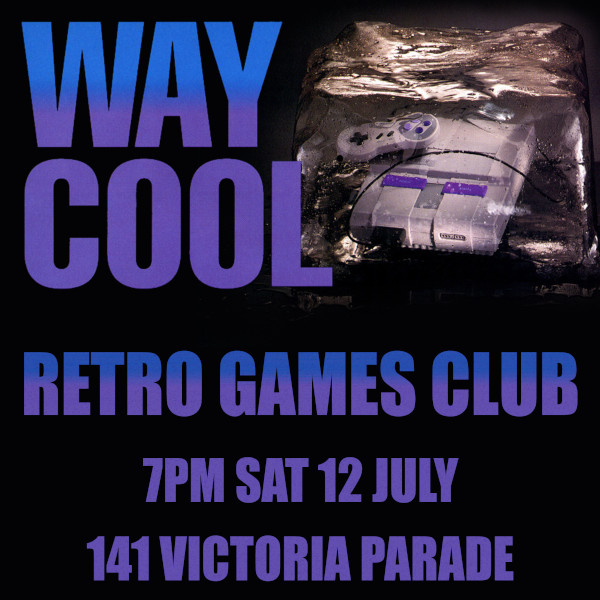
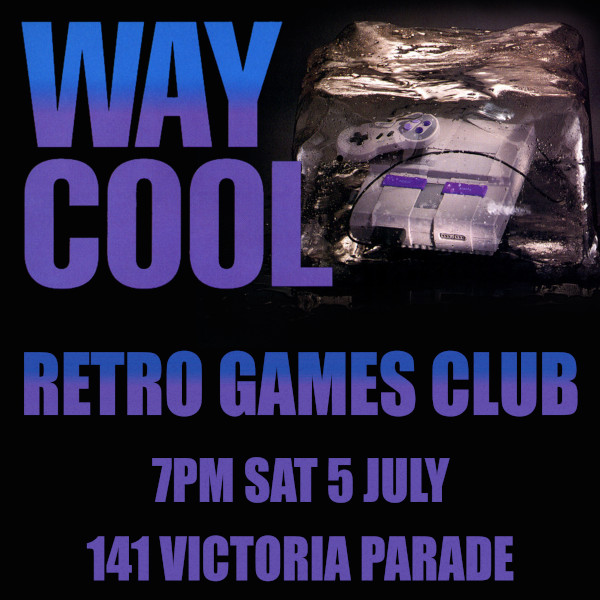
deploy: f20acfa6bb9a91587229a1eeec925e0bd011f57e

Changed region(s): [[0.24, 0.75, 0.78, 0.84]]

diff --git a/events/2025/07-retro-game-club/index.html b/events/2025/07-retro-game-club/index.html
@@ -82,7 +82,7 @@
 	<div class="title">
 		<h1>Retro Games Club</h1>
 		<date>
-			12 Jul 2025
+			05 Jul 2025
 			 <span class="divider">—</span> From 7PM</date>
 	</div>
 
@@ -93,7 +93,8 @@
 	<p>PS2 Book Club is gone, long live Retro Games Club! Come present games from from PS3/360/Wii era and back.</p>
 <p>There's no console theme for July so feel free to present whatever weird or interesting stuff that you wanna show off, or just come along and listen to passionate folks talk about older games!</p>
 <p>Hosted by the gregarious Stella and Zach.<br>
-<a href="https://forms.gle/TaNh2JhfwrDKvScw6" class="button">Signup to talk!</a></p>
+<a href="https://events.humanitix.com/retro-games-club" class="button">Reserve A Spot!</a></p>
+<p><a href="https://forms.gle/TaNh2JhfwrDKvScw6" class="button">Signup to talk!</a></p>
 
 	</article>
 </section>

diff --git a/calendar/index.html b/calendar/index.html
@@ -288,7 +288,7 @@
 						<td class="day-active">4</td>
 							
 							
-						<td class="day-active">5</td>
+						<td class="day-active">5<a class="calendar-link" href="/events/2025/07-retro-game-club/">Retro Games Club</a></td>
 							
 							
 						<td class="day-active">6</td>
@@ -309,7 +309,7 @@
 						<td class="day-active">11</td>
 							
 							
-						<td class="day-active">12<a class="calendar-link" href="/events/2025/07-retro-game-club/">Retro Games Club</a></td>
+						<td class="day-active">12</td>
 							
 							
 						<td class="day-active">13</td>

diff --git a/events/index.html b/events/index.html
@@ -114,7 +114,7 @@
 		<br>Present games from from PS3/360/Wii era &amp; back.</p>
 		
 		<i>
-			12 Jul  <span class="divider">—</span> From 7PM</i>
+			05 Jul  <span class="divider">—</span> From 7PM</i>
 		</li>
 	
 	</ul>
